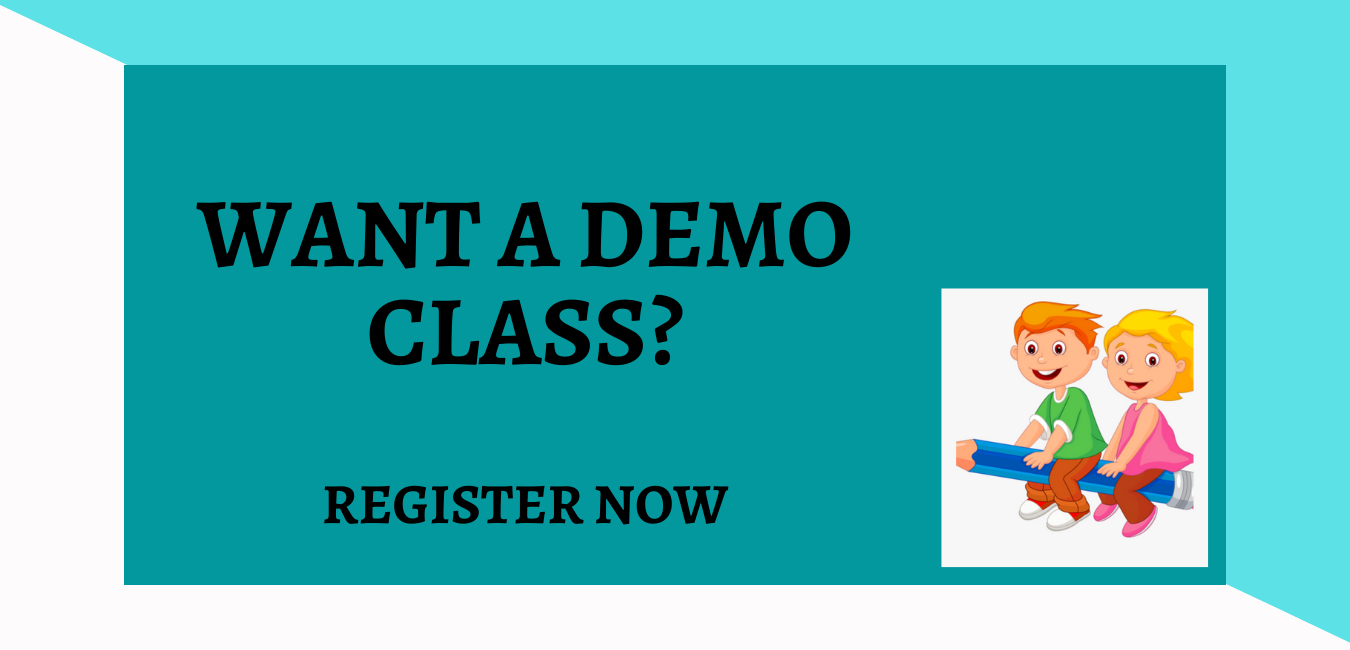
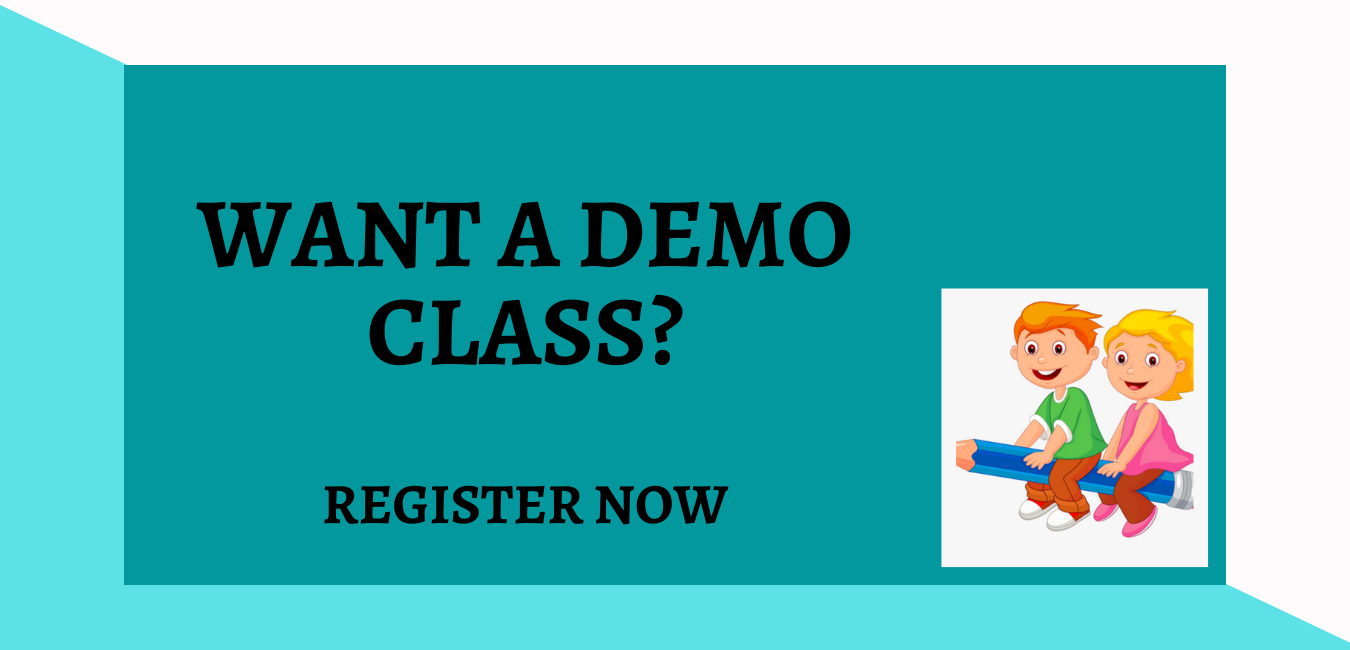
front added

diff --git a/public/css/styles2.css b/public/css/styles2.css
@@ -10157,7 +10157,7 @@ footer.footer {
 }
 
 .carousel-item{
-  padding: 0% 0%;
+  padding: 1% 7%;
 
 }
 
